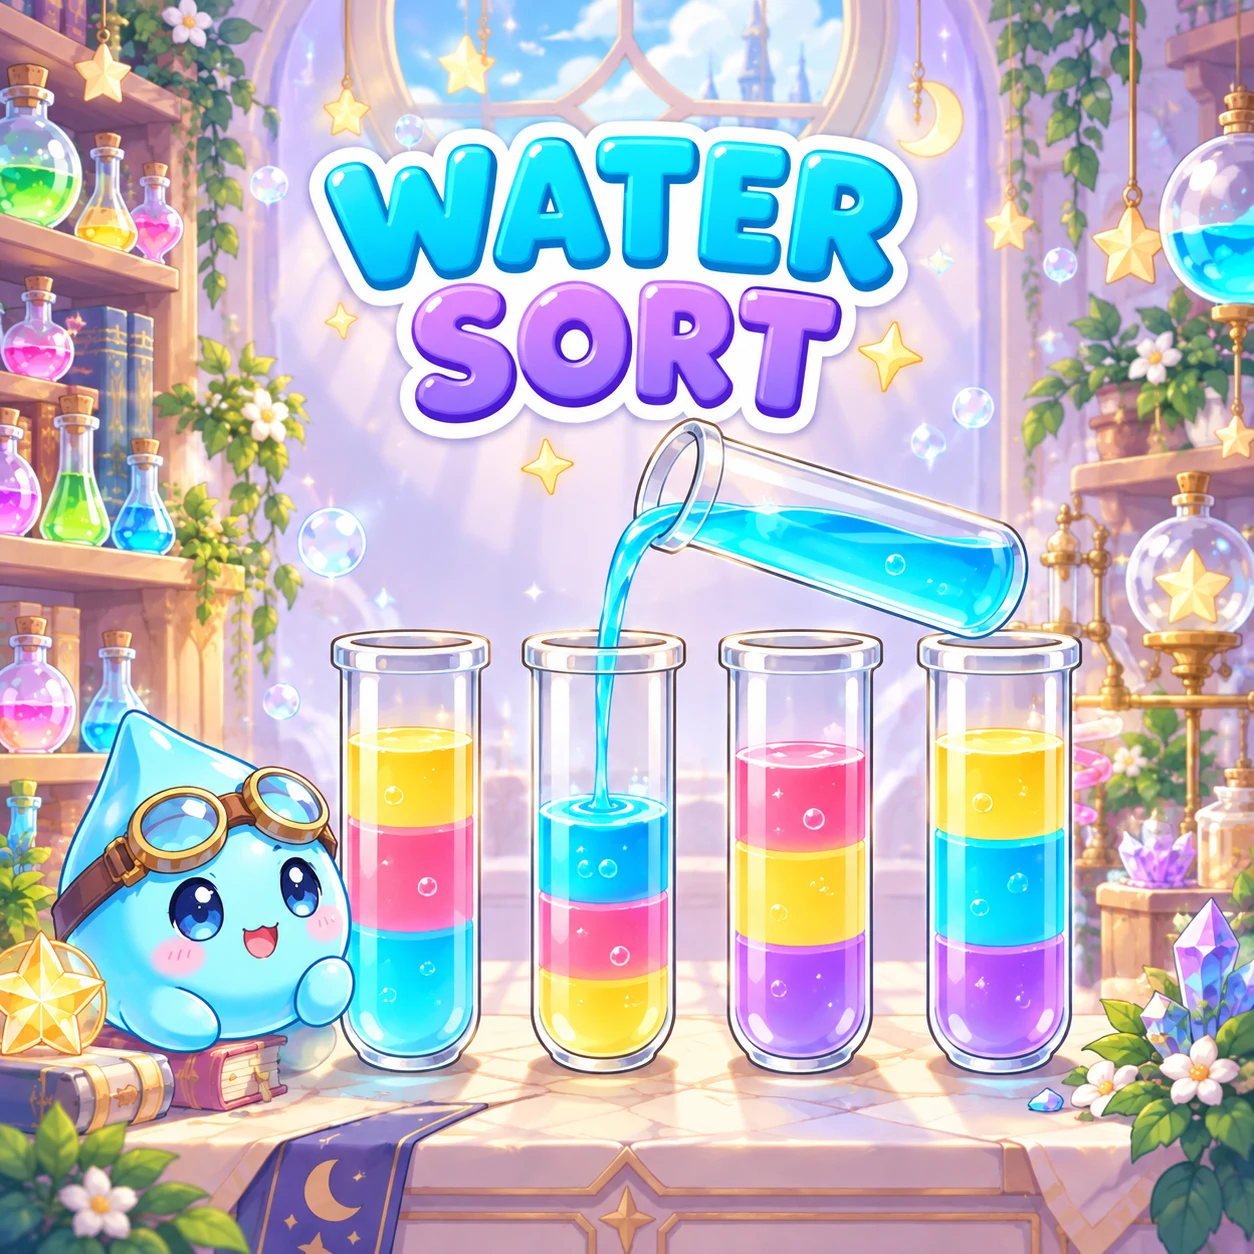
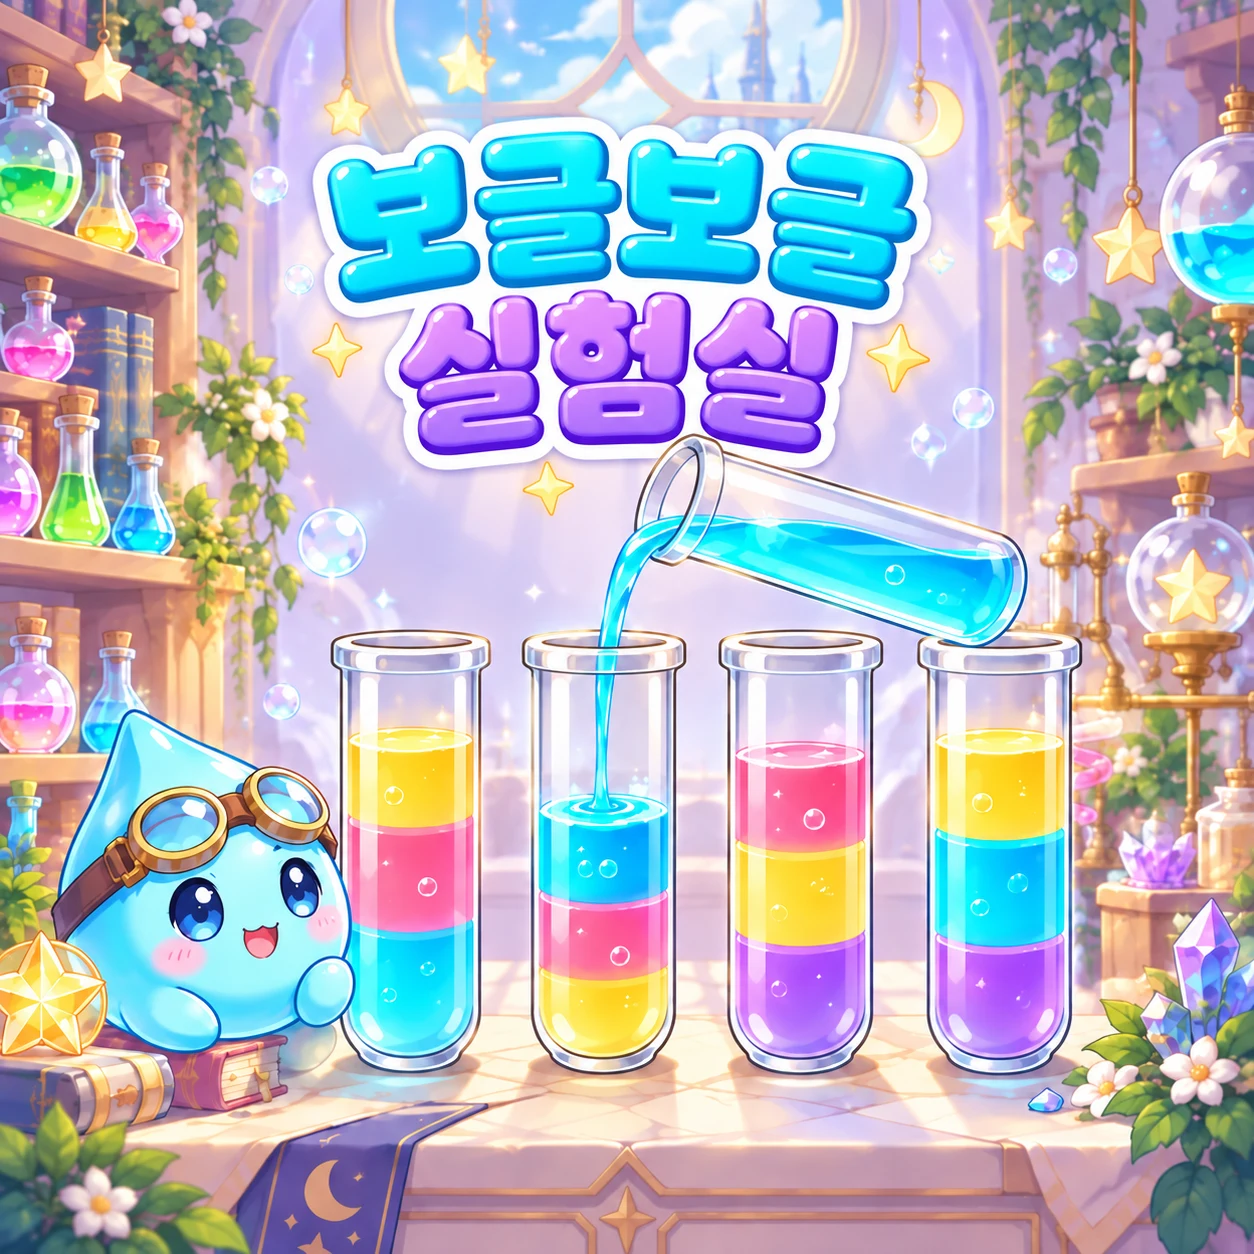
Rename first game card to Bubbly Lab with matching artwork

diff --git a/index.html b/index.html
@@ -99,7 +99,7 @@
             "name": "ArcherLab 프로젝트 목록",
             "itemListOrder": "http://schema.org/ItemListOrderAscending",
             "itemListElement": [
-              {"@type": "ListItem", "position": 1, "item": {"@type": "VideoGame", "name": "워터 소트", "url": "https://game.archerlab.dev/water-sort/"}},
+              {"@type": "ListItem", "position": 1, "item": {"@type": "VideoGame", "name": "보글보글 실험실", "url": "https://game.archerlab.dev/water-sort/"}},
               {"@type": "ListItem", "position": 2, "item": {"@type": "VideoGame", "name": "루멘 쉬프트", "alternateName": "LUMEN SHIFT", "url": "https://game.archerlab.dev/lumen-shift/"}},
               {"@type": "ListItem", "position": 3, "item": {"@type": "VideoGame", "name": "Jelly Pang!", "url": "https://game.archerlab.dev/jelly-pang-2048/"}},
               {"@type": "ListItem", "position": 4, "item": {"@type": "VideoGame", "name": "스쿨 언데드 디펜스", "url": "https://game.archerlab.dev/school-zombie-defense/"}},
@@ -210,11 +210,11 @@
         <div class="hub-grid">
           <a class="hub-card water-sort-card" href="https://game.archerlab.dev/water-sort/" target="_blank" rel="noopener" data-category="게임">
             <picture>
-              <source srcset="assets/images/water-sort_link.webp?v=2" type="image/webp" />
-              <img class="hub-thumb" src="assets/images/water-sort_link.png?v=2" alt="알록달록한 물약을 색깔별로 모으는 워터 소트 퍼즐" width="1254" height="1254" loading="eager" fetchpriority="high" decoding="async" />
+              <source srcset="assets/images/water-sort_link.webp?v=3" type="image/webp" />
+              <img class="hub-thumb" src="assets/images/water-sort_link.png?v=3" alt="보글보글 실험실: 알록달록한 물약을 색깔별로 모으는 퍼즐" width="1254" height="1254" loading="eager" fetchpriority="high" decoding="async" />
             </picture>
             <div class="hub-body">
-              <strong>워터 소트</strong>
+              <strong>보글보글 실험실</strong>
               <p>같은 색 물약을 한 병에 모으세요. 한 스테이지에 60초! 점점 어려워지는 퍼즐에 도전해 보세요.</p>
             </div>
           </a>

diff --git a/index-en.html b/index-en.html
@@ -99,7 +99,7 @@
             "name": "ArcherLab project highlights",
             "itemListOrder": "http://schema.org/ItemListOrderAscending",
             "itemListElement": [
-              {"@type": "ListItem", "position": 1, "item": {"@type": "VideoGame", "name": "Water Sort", "url": "https://game.archerlab.dev/water-sort/"}},
+              {"@type": "ListItem", "position": 1, "item": {"@type": "VideoGame", "name": "Bubbly Lab", "url": "https://game.archerlab.dev/water-sort/"}},
               {"@type": "ListItem", "position": 2, "item": {"@type": "VideoGame", "name": "LUMEN SHIFT", "url": "https://game.archerlab.dev/lumen-shift/"}},
               {"@type": "ListItem", "position": 3, "item": {"@type": "VideoGame", "name": "Jelly Pang!", "url": "https://game.archerlab.dev/jelly-pang-2048/"}},
               {"@type": "ListItem", "position": 4, "item": {"@type": "VideoGame", "name": "School Zombie Defense", "url": "https://game.archerlab.dev/school-zombie-defense/"}},
@@ -210,11 +210,11 @@
         <div class="hub-grid">
           <a class="hub-card water-sort-card" href="https://game.archerlab.dev/water-sort/" target="_blank" rel="noopener" data-category="게임">
             <picture>
-              <source srcset="assets/images/water-sort_link.webp?v=2" type="image/webp" />
-              <img class="hub-thumb" src="assets/images/water-sort_link.png?v=2" alt="Water Sort puzzle with colorful potions in glass tubes" width="1254" height="1254" loading="eager" fetchpriority="high" decoding="async" />
+              <source srcset="assets/images/water-sort_link.webp?v=3" type="image/webp" />
+              <img class="hub-thumb" src="assets/images/water-sort_link.png?v=3" alt="Bubbly Lab puzzle with colorful potions in glass tubes" width="1254" height="1254" loading="eager" fetchpriority="high" decoding="async" />
             </picture>
             <div class="hub-body">
-              <strong>Water Sort</strong>
+              <strong>Bubbly Lab</strong>
               <p>Sort each potion color into its own bottle. You have 60 seconds per stage, with tougher puzzles as you progress.</p>
             </div>
           </a>
